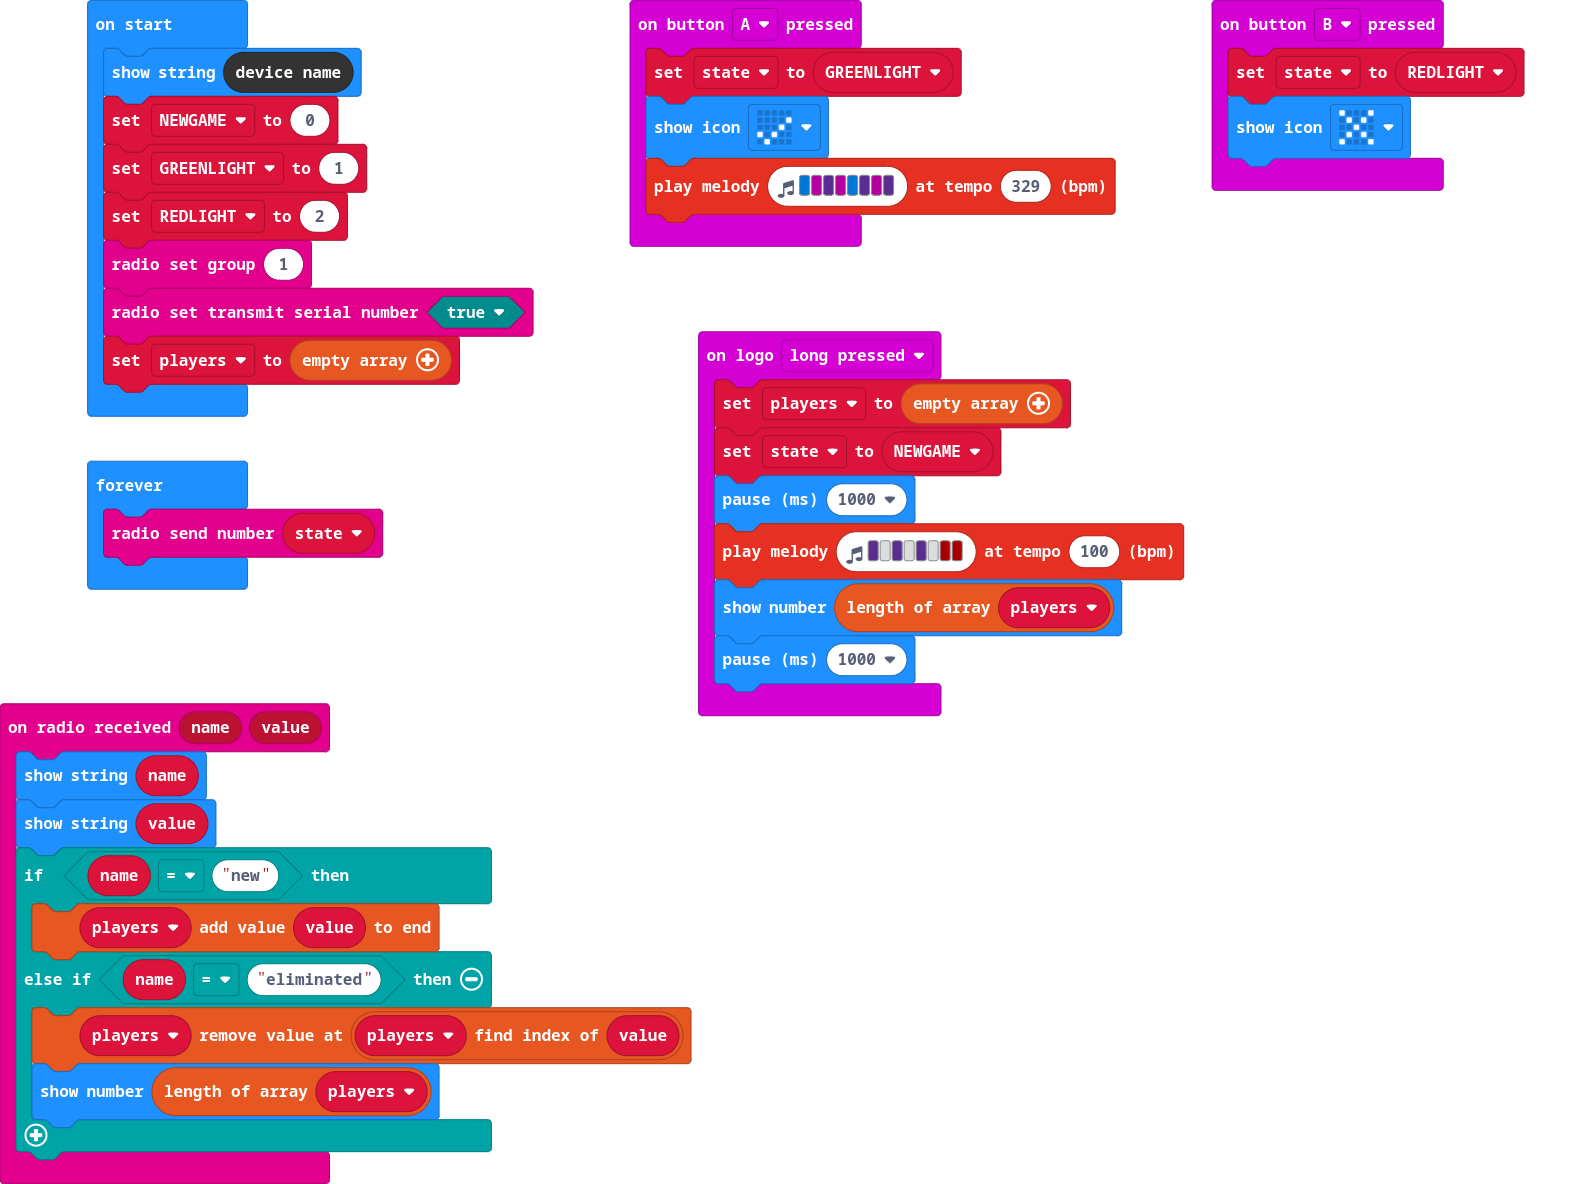
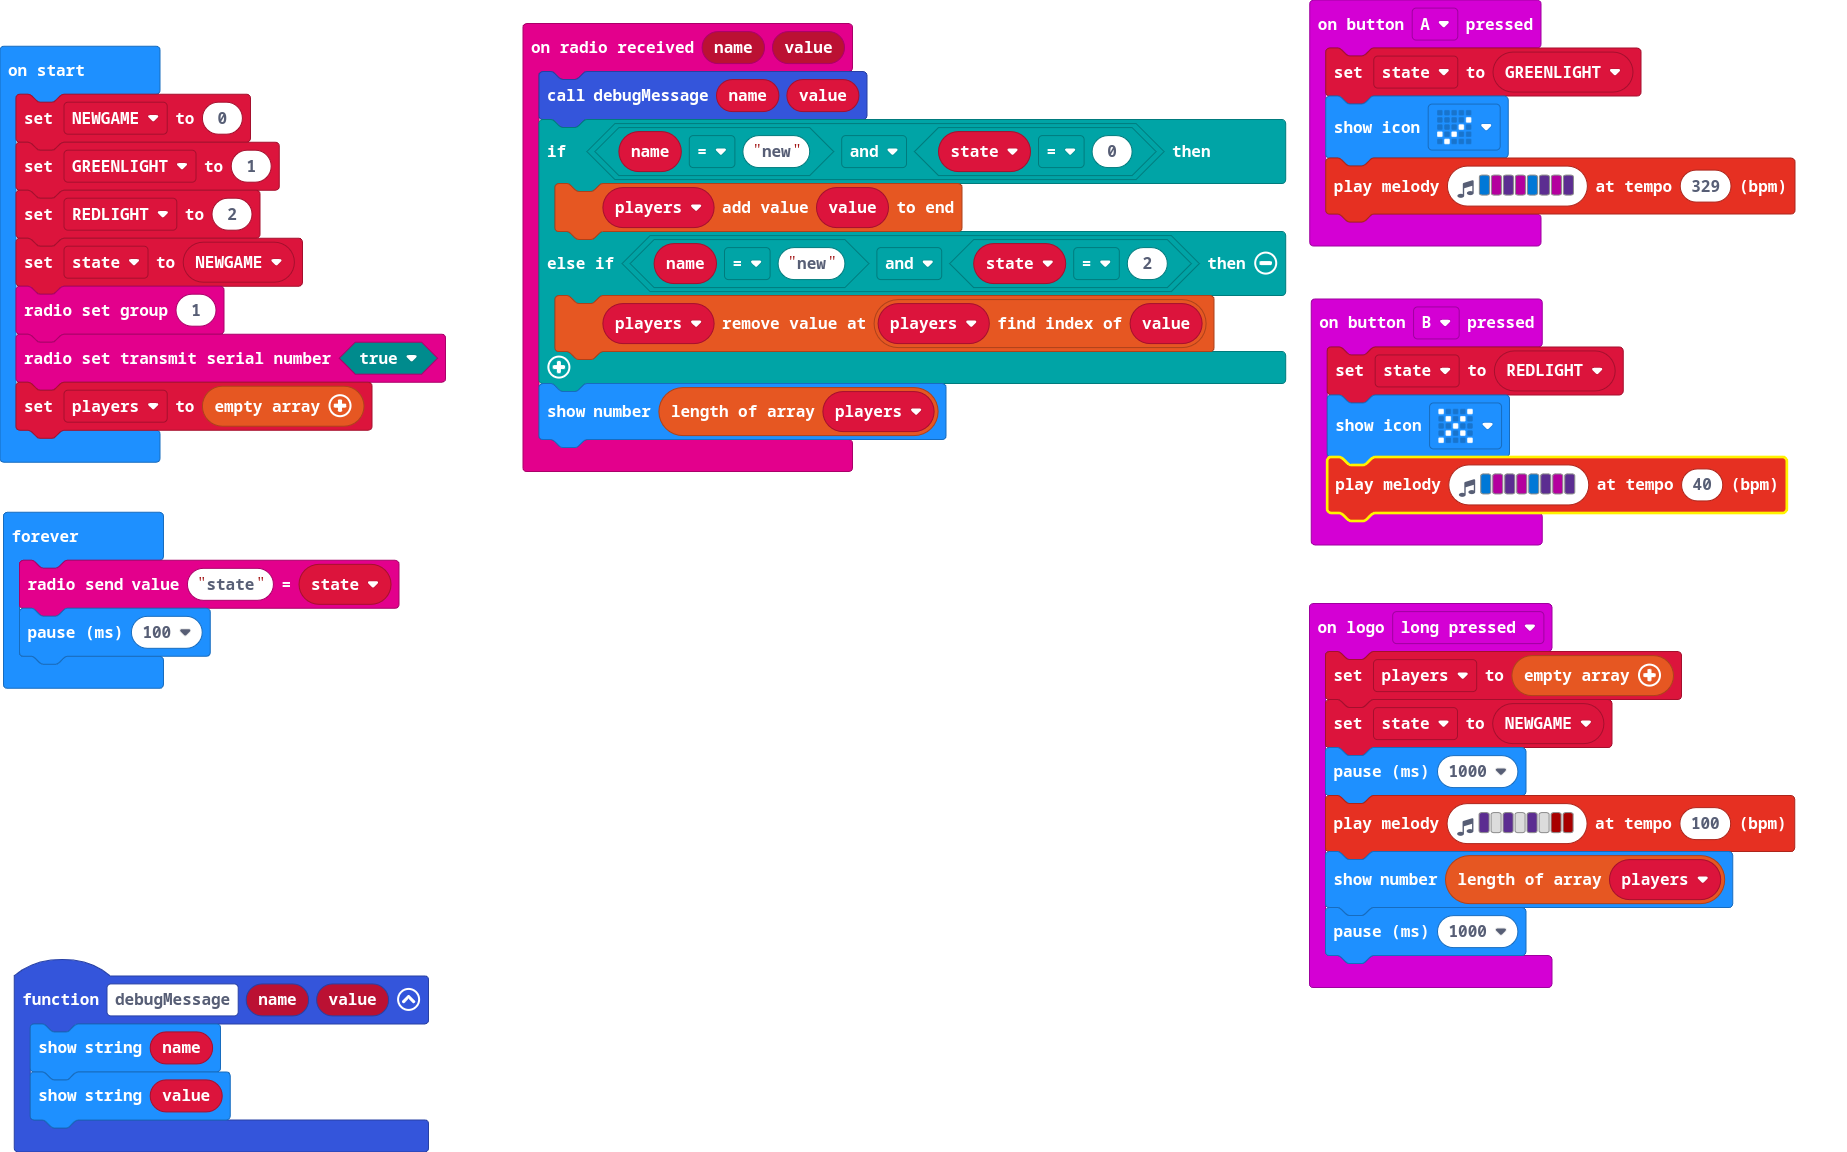
Arrays, passing messages via state, new, eliminated values

diff --git a/main.ts b/main.ts
@@ -11,32 +11,37 @@ input.onButtonPressed(Button.A, function () {
     basic.showIcon(IconNames.Yes)
     music.playMelody("E C D C E D C D ", 329)
 })
+function debugMessage (name: string, value: number) {
+    basic.showString(name)
+    basic.showString("" + (value))
+}
 input.onButtonPressed(Button.B, function () {
     state = REDLIGHT
     basic.showIcon(IconNames.No)
+    music.playMelody("E C D C E D C D ", 40)
 })
 radio.onReceivedValue(function (name, value) {
-    basic.showString(name)
-    basic.showString("" + (value))
-    if (name == "new") {
+    debugMessage(name, value)
+    if (name == "new" && state == 0) {
         players.push(value)
-    } else if (name == "eliminated") {
+    } else if (name == "new" && state == 2) {
         players.removeAt(players.indexOf(value))
-        basic.showNumber(players.length)
     }
+    basic.showNumber(players.length)
 })
-let state = 0
 let players: number[] = []
+let state = 0
 let REDLIGHT = 0
 let GREENLIGHT = 0
 let NEWGAME = 0
-basic.showString(control.deviceName())
 NEWGAME = 0
 GREENLIGHT = 1
 REDLIGHT = 2
+state = NEWGAME
 radio.setGroup(1)
 radio.setTransmitSerialNumber(true)
 players = []
 basic.forever(function () {
-    radio.sendNumber(state)
+    radio.sendValue("state", state)
+    basic.pause(100)
 })
